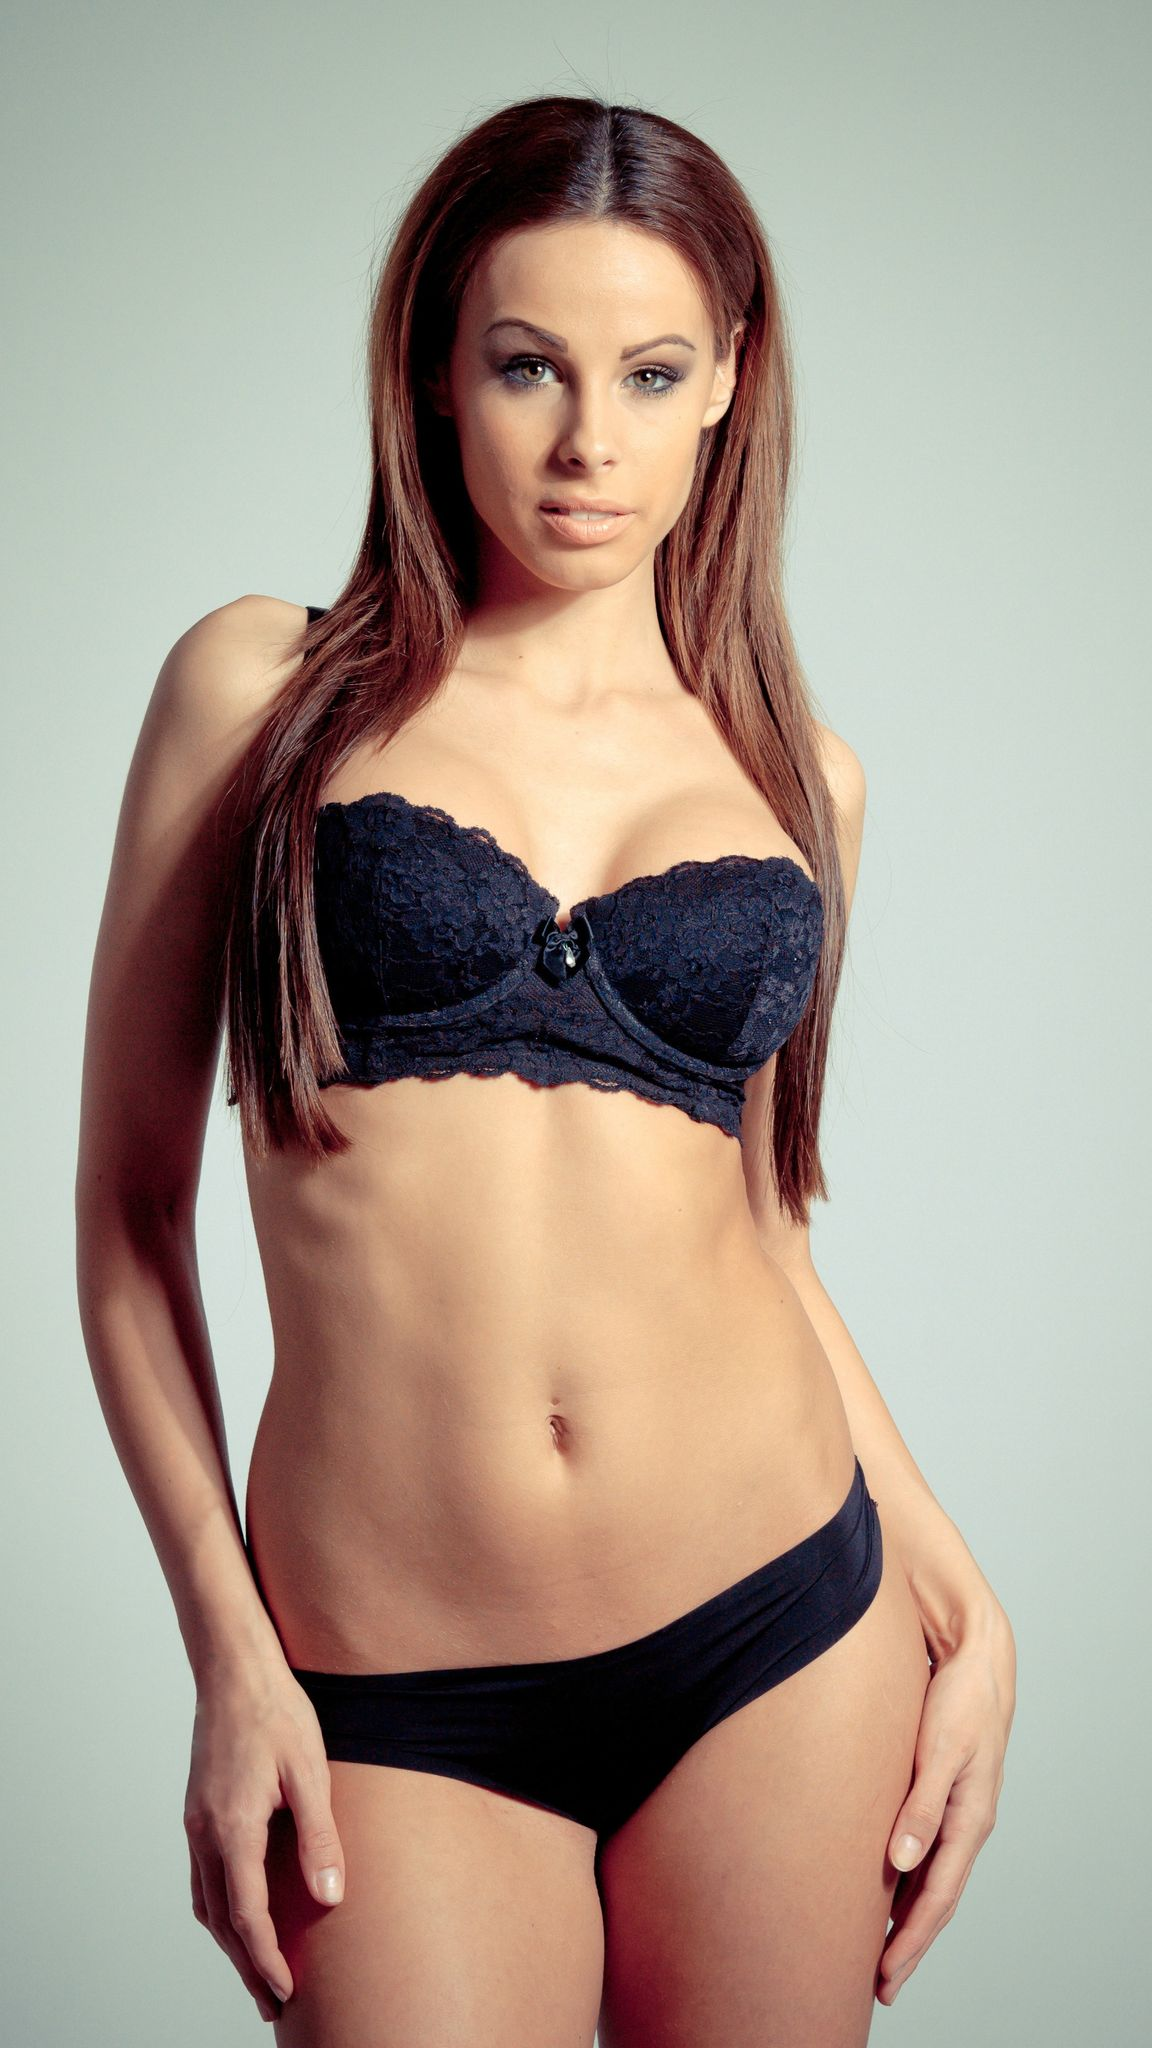
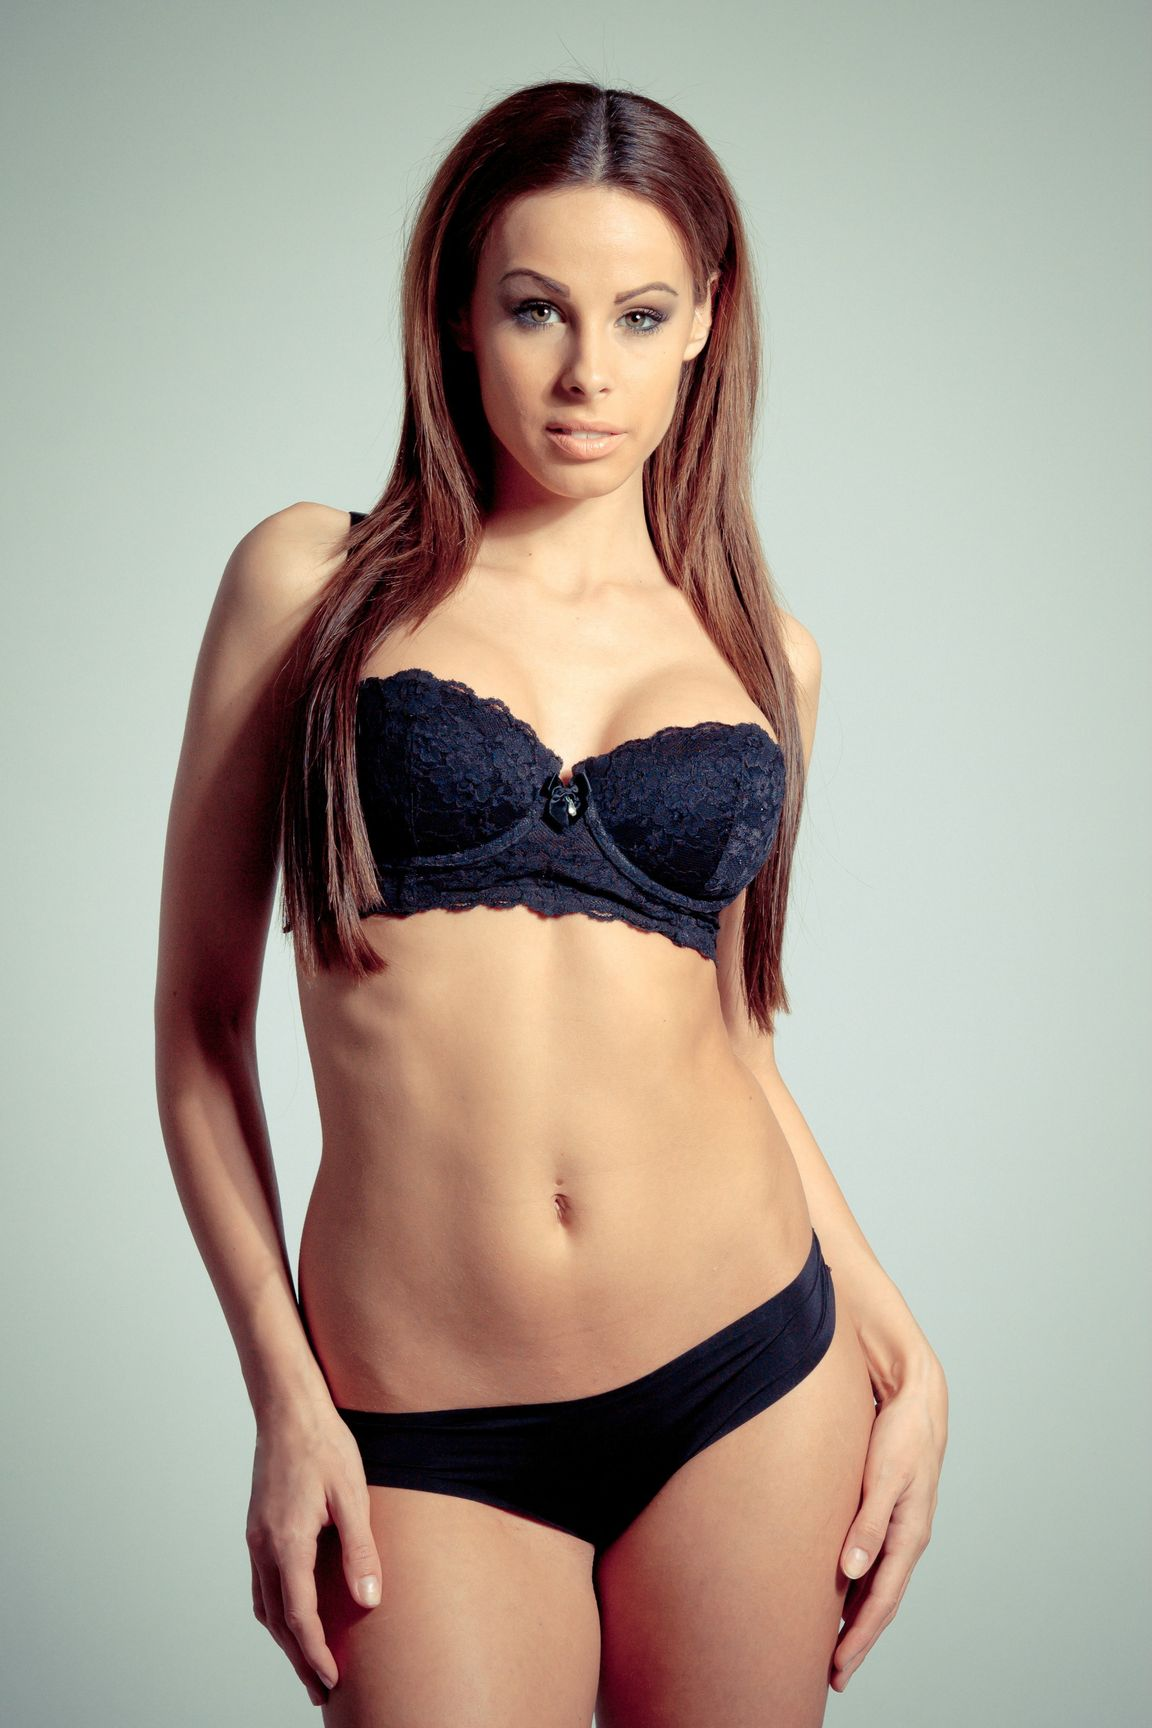
Restore the tall campaign tiles, keeping the new label and hover
The tiles had been cut down to one viewport height, which cropped both models
at the head and the legs. They are tall again and, more importantly, uncropped:
the campaign photographs are now downloaded at their own aspect ratio rather
than force-cropped to 9:16 by the CDN, and the tile renders the whole file.
Each tile is about one and a half viewports.

Keeping the title and the EXPLORE button usable on a tile that tall needed
them to ride the viewport: both now sit in a sticky, viewport-height box, so
the title stays at the top of the screen and the button stays centred for the
whole scroll instead of sitting off screen.

Two supporting details:

  - `overflow: hidden` is deliberately absent from the tile. It would make the
    tile a scroll container and silently break the sticky positioning.
  - The image no longer scales on hover, since clipping that zoom would have
    required the same `overflow: hidden`. The wash and the button remain.

Adds a `noCrop` option to fetch-images.mjs for slots whose framing matters more
than hitting an exact aspect ratio.

diff --git a/src/components/home/Home.css b/src/components/home/Home.css
@@ -74,75 +74,80 @@
   gap: 2px;
 }
 
-/* The whole column is the link — image, title and hover overlay all sit inside it. */
+/* The whole column is the link — image, title and hover overlay all sit inside it.
+   Deliberately no `overflow: hidden`: it would turn this into a scroll container and kill the
+   `position: sticky` the title and button depend on. */
 .campaign__col {
   position: relative;
   display: block;
-  overflow: hidden;
 }
 
-/* A viewport-height tile rather than the viewport-taller scroll panel this used to be: a hover
-   overlay with a centred button only works when the whole tile is on screen at once. */
+/* The photograph at its own aspect ratio, never cropped, so the model is whole. The files are
+   1:1.5, which makes each tile roughly one and a half viewports tall. */
 .campaign__img {
+  display: block;
   width: 100%;
-  height: clamp(460px, 80vh, 880px);
-  object-fit: cover;
-  transition: scale 0.6s var(--ease);
+  height: auto;
 }
 
-.campaign__col:hover .campaign__img {
-  scale: 1.04;
+/* Covers the full height of the tile and carries the hover wash. */
+.campaign__layer {
+  position: absolute;
+  inset: 0;
+  z-index: 2;
+  background: rgba(0, 0, 0, 0);
+  transition: background 0.35s var(--ease);
+}
+
+.campaign__col:hover .campaign__layer,
+.campaign__col:focus-visible .campaign__layer {
+  background: rgba(0, 0, 0, 0.3);
+}
+
+/* Title and button ride the viewport, so both stay in view for the whole tall scroll. */
+.campaign__sticky {
+  position: sticky;
+  top: 0;
+  display: grid;
+  grid-template-rows: auto 1fr;
+  justify-items: center;
+  height: 100vh;
+  padding-top: calc(var(--header-h-stuck) + var(--s-5));
 }
 
 /* Scrim so the title holds up over both a pale and a dark photograph. */
-.campaign__col::before {
+.campaign__sticky::before {
   content: '';
   position: absolute;
   inset: 0 0 auto 0;
-  z-index: 1;
-  height: 180px;
-  background: linear-gradient(to bottom, rgba(0, 0, 0, 0.42), transparent);
+  height: 190px;
+  background: linear-gradient(to bottom, rgba(0, 0, 0, 0.45), transparent);
   pointer-events: none;
 }
 
 .campaign__title {
-  position: absolute;
-  top: var(--s-6);
-  left: 50%;
-  translate: -50% 0;
-  z-index: 2;
+  position: relative;
   color: #ffffff;
   font-size: var(--fs-lead);
   white-space: nowrap;
 }
 
-.campaign__overlay {
-  position: absolute;
-  inset: 0;
-  z-index: 3;
-  display: grid;
-  place-items: center;
-  background: rgba(0, 0, 0, 0.3);
-  opacity: 0;
-  transition: opacity 0.35s var(--ease);
-}
-
-.campaign__col:hover .campaign__overlay,
-.campaign__col:focus-visible .campaign__overlay {
-  opacity: 1;
-}
-
 .campaign__cta {
+  align-self: center;
   padding: 15px 38px;
   background: var(--c-bg);
   color: var(--c-fg);
   font-size: var(--fs-nav);
+  opacity: 0;
   translate: 0 10px;
-  transition: translate 0.35s var(--ease);
+  transition:
+    opacity 0.35s var(--ease),
+    translate 0.35s var(--ease);
 }
 
 .campaign__col:hover .campaign__cta,
 .campaign__col:focus-visible .campaign__cta {
+  opacity: 1;
   translate: 0 0;
 }
 

diff --git a/src/components/home/HomeSections.tsx b/src/components/home/HomeSections.tsx
@@ -63,9 +63,13 @@ function CampaignColumn({ tile }: { tile: CampaignTile }) {
   return (
     <Link to={tile.href} className="campaign__col" aria-label={`${tile.caption} — explore`}>
       <img src={tile.image} alt="" className="campaign__img" />
-      <span className="campaign__title caps">{tile.caption}</span>
-      <span className="campaign__overlay" aria-hidden>
-        <span className="campaign__cta caps">Explore</span>
+      {/* The tile is taller than the viewport, so the title and button ride inside a sticky
+          viewport-height box — otherwise a centred button sits off screen for most of the scroll. */}
+      <span className="campaign__layer" aria-hidden>
+        <span className="campaign__sticky">
+          <span className="campaign__title caps">{tile.caption}</span>
+          <span className="campaign__cta caps">Explore</span>
+        </span>
       </span>
     </Link>
   )
